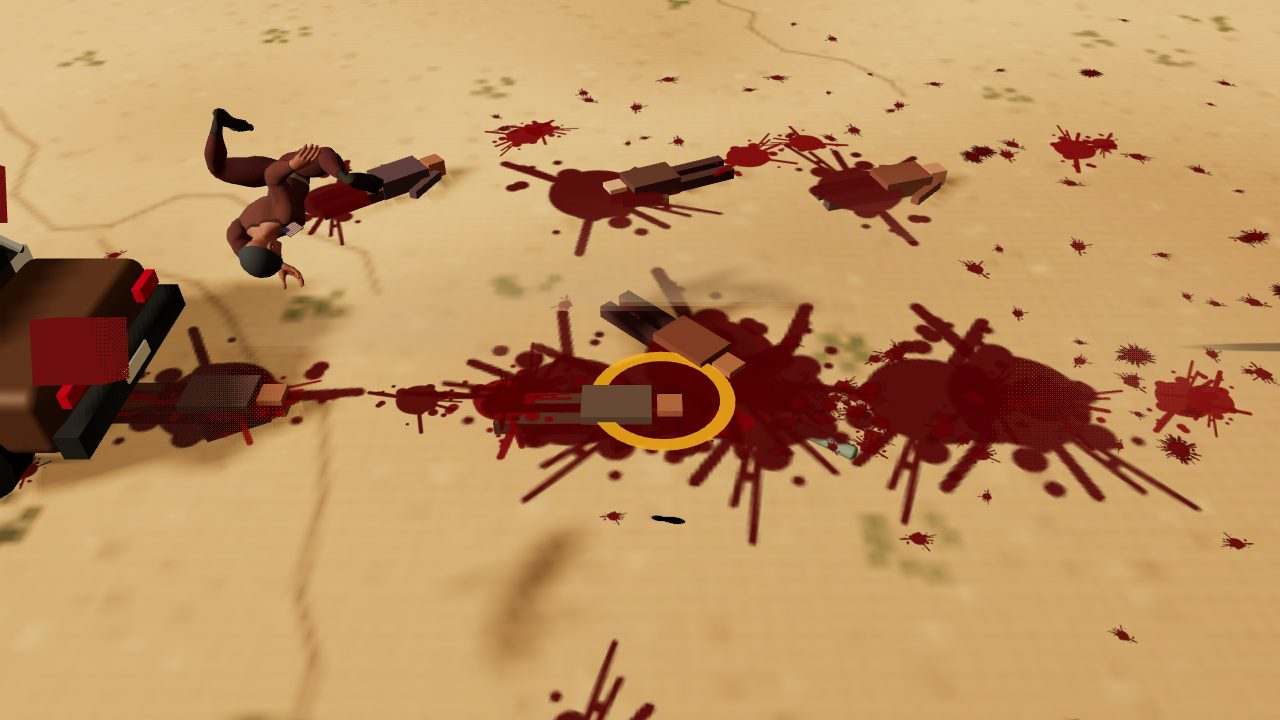
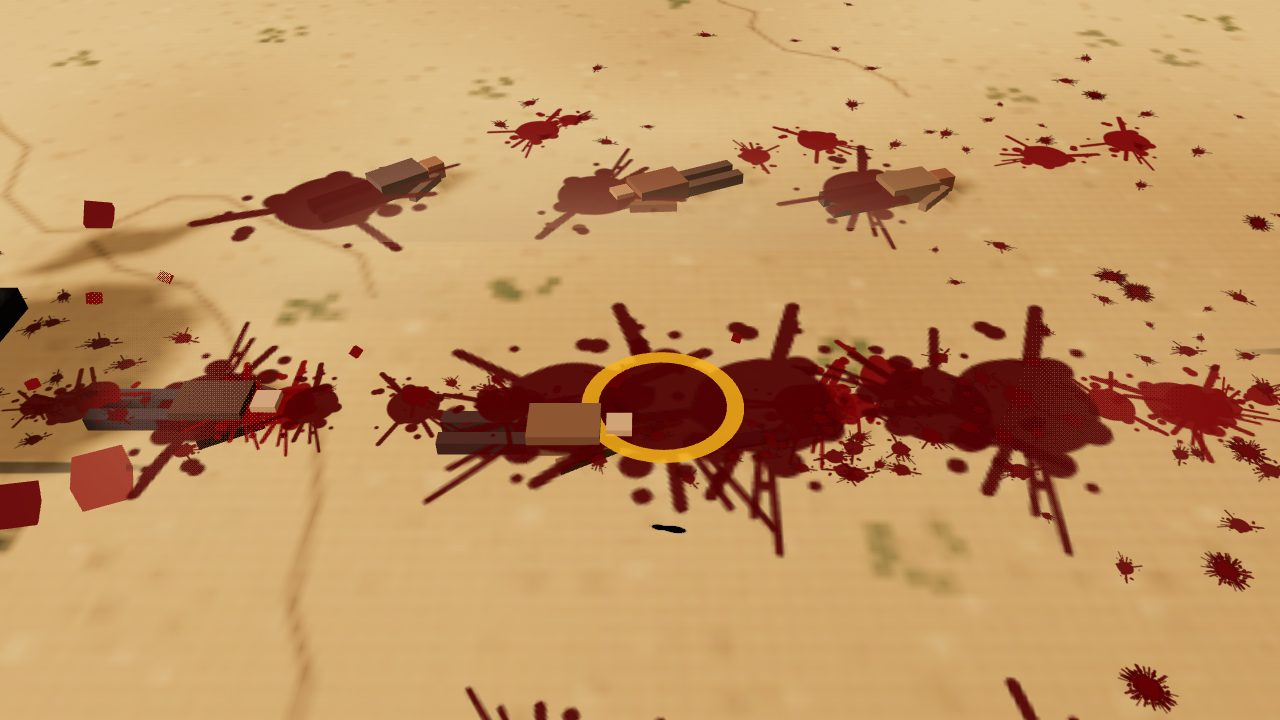
fix(web): deaths on the faceted LSW bodies; segment probes keep a body on the stair treads, not through them; renders re-shot

diff --git a/web/src/systems/deaths.js b/web/src/systems/deaths.js
@@ -22,6 +22,10 @@ const LINKS = [
   [0, 2, THIGH], [1, 3, THIGH], [2, 4, SHIN], [3, 5, SHIN], [6, 8, UPPER], [7, 9, UPPER], [8, 10, FORE], [9, 11, FORE],
   [0, 4, 0.35, 'min'], [1, 5, 0.35, 'min'], [6, 10, 0.2, 'min'], [7, 11, 0.2, 'min'], // a knee or an elbow never folds flat
 ];
+// Segment probes: a body lies across stair treads and kerbs between its points; these links are sampled along their
+// length (at `at` of the way), and a sample under what is beneath it lifts both ends (radius r: the limb's half-thickness).
+const PROBES = [[0, 6, 0.12], [1, 7, 0.12], [0, 7, 0.12], [1, 6, 0.12], [0, 2, 0.08], [1, 3, 0.08], [2, 4, 0.06], [3, 5, 0.06], [6, 8, 0.06], [7, 9, 0.06]];
+const PROBE_AT = [0.25, 0.5, 0.75];
 const RAD = new Float32Array(NP).fill(RG.radius); for (const i of [0, 1, 6, 7]) RAD[i] = RG.radiusTorso;
 const LIMB_PTS = { armL: [6, 10, 8], armR: [7, 11, 9], legL: [0, 4, 2], legR: [1, 5, 3] }; // root, end, middle
 const smooth = (x) => x * x * (3 - 2 * x);
@@ -234,6 +238,7 @@ export class Deaths {
       if (wy < f) wy = f;
       out[i * 3] = wx; out[i * 3 + 1] = wy; out[i * 3 + 2] = wz;
     }
+    this.lift(out, null);
     return out;
   }
   // The clip hands over to the ragdoll: the points carry the clip's own speed plus the row's kick.
@@ -358,6 +363,7 @@ export class Deaths {
       }
       this.collide(R, it === RG.iters - 1);
     }
+    this.lift(P, Q);
     for (let j = 0; j < N3; j++) { const v = Math.abs(P[j] - Q[j]); if (v > vmax) vmax = v; }
     // still: slow relative to what it lies on (a body riding a moving bed is still on the bed)
     const rel = R.onSurf ? Math.max(0, vmax - Math.hypot(R.svx, R.svz) * h) : vmax;
@@ -387,6 +393,21 @@ export class Deaths {
       }
     }
   }
+  // Lift every probed segment clear of what is under it (a stair's nosing, a kerb): both ends go up by the deficit.
+  // Q (when given) goes up with P, so a lift is not a launch.
+  lift(P, Q) {
+    for (const [a0, b0, r] of PROBES) {
+      const a = a0 * 3, b = b0 * 3;
+      let need = 0;
+      for (const u of PROBE_AT) {
+        const x = P[a] + (P[b] - P[a]) * u, y = P[a + 1] + (P[b + 1] - P[a + 1]) * u, z = P[a + 2] + (P[b + 2] - P[a + 2]) * u;
+        const d = this.surface(x, z, y + 0.3) + r - y;
+        if (d > need) need = d;
+      }
+      if (need > 0) { P[a + 1] += need; P[b + 1] += need; if (Q) { Q[a + 1] += need; Q[b + 1] += need; } }
+    }
+  }
+
   // After each update: the body's spot (c.x/z the pelvis), in the air or not (blood.js smears only on the ground), the car.
   track(c, R) {
     const P = R.P, px = (P[0] + P[3]) / 2, py = (P[1] + P[4]) / 2, pz = (P[2] + P[5]) / 2;
@@ -492,12 +513,18 @@ export class Deaths {
       const y = P[i * 3 + 1]; lo = Math.min(lo, y); hi = Math.max(hi, y);
       const f = this.surface(P[i * 3], P[i * 3 + 2], y + 0.3) + RAD[i]; gap = Math.min(gap, y - f); hang = Math.max(hang, y - f);
     }
+    // cut: how far any probed segment dips under what is beneath it (a torso through a stair's nosing)
+    let cut = 0;
+    for (const [a0, b0, r] of PROBES) for (const u of PROBE_AT) {
+      const a = a0 * 3, b = b0 * 3, x = P[a] + (P[b] - P[a]) * u, y = P[a + 1] + (P[b + 1] - P[a + 1]) * u, z = P[a + 2] + (P[b + 2] - P[a + 2]) * u;
+      cut = Math.max(cut, this.surface(x, z, y + 0.3) + r * 0.5 - y);
+    }
     let stretch = 0;
     for (const L of LINKS) { if (L[3]) continue; const a = L[0] * 3, b = L[1] * 3; stretch = Math.max(stretch, Math.abs(Math.hypot(P[b] - P[a], P[b + 1] - P[a + 1], P[b + 2] - P[a + 2]) - L[2]) / L[2]); }
     return {
       id: c.id, clip: R.id, part: R.part, cause: R.cause, phase: R.phase, t: r2(R.t), age: r2(R.age), air: R.air, airT: r2(R.airT ?? 0),
       onVehicle: R.on?.id ?? null, carSp: R.carSp !== undefined ? r2(R.carSp) : null, x: r2(c.x), z: r2(c.z), lowY: r2(lo), highY: r2(hi), maxLift: r2(R.maxY),
-      restGap: r2(gap), hang: r2(hang), stretch: r2(stretch), lost: c.lost ?? 0, moved: r2(Math.hypot(c.x - R.x0, c.z - R.z0)),
+      restGap: r2(gap), hang: r2(hang), cut: r2(cut), stretch: r2(stretch), lost: c.lost ?? 0, moved: r2(Math.hypot(c.x - R.x0, c.z - R.z0)),
       cross: R.cross ? { a0: r2(R.cross.a0), aMin: r2(R.cross.aMin), overTop: R.cross.overTop, len: R.cross.len } : null,
     };
   }

diff --git a/web/src/agent/deaths-api.js b/web/src/agent/deaths-api.js
@@ -111,10 +111,10 @@ export async function deathsChecks({ g, api, C, check, stage, hush }) {
         const r = await C('death', { action: 'play', type, x: at.x, z: at.z });
         const c = api.findChar(r.id); made.push(c);
         const v = await settle(c, 10);
-        out[type] = v ? { clip: v.clip, phase: v.phase, gap: v.restGap, hang: v.hang, stretch: v.stretch, low: v.lowY, on: v.onVehicle } : null;
+        out[type] = v ? { clip: v.clip, cut: v.cut, phase: v.phase, gap: v.restGap, hang: v.hang, stretch: v.stretch, low: v.lowY, on: v.onVehicle } : null;
         if (r.vehicle) { const car = api.findVeh(r.vehicle); if (car) g.vehiclesSys.remove(car); }
       }
-      const bad = Object.entries(out).filter(([k, v]) => !v || v.clip !== k || v.phase !== 'still' || v.gap > 0.15 || v.stretch > 0.15);
+      const bad = Object.entries(out).filter(([k, v]) => !v || v.clip !== k || v.cut > 0.03 || v.phase !== 'still' || v.gap > 0.15 || v.stretch > 0.15);
       return bad.length ? JSON.stringify(out) : true;
     } finally { gone(...made); g.godMode = false; }
   }));
@@ -167,7 +167,7 @@ export async function deathsChecks({ g, api, C, check, stage, hush }) {
     } finally { if (P().inVehicle) g.exitVehicle(true); g.vehiclesSys.remove(v); gone(c); g.godMode = false; }
   }));
 
-  await check('deaths: a body dying on a flight of stairs settles ON the stairs - every point rests on its own step (no float, none under the treads), the body spread over more than one step', async () => hush(async () => {
+  await check('deaths: a body dying on a flight of stairs settles ON the stairs - every point rests on its own step, no limb or torso cuts through a tread (segments probed along their length), the body spread over more than one step', async () => hush(async () => {
     await stage();
     await C('teleport', { x: 0, z: -40 });
     const S = g.storeys.list.find((s) => s.flights[0] && s.flights[0].len > 2.5);
@@ -182,7 +182,7 @@ export async function deathsChecks({ g, api, C, check, stage, hush }) {
       const v = await settle(c, 9);
       const ys = []; for (let i = 0; i < 12; i++) ys.push(c.rag.P[i * 3 + 1]);
       const spread = Math.max(...ys) - Math.min(...ys);
-      return v.phase === 'still' && v.restGap < 0.15 && v.hang < 0.6 && mid > 0.4 && spread > 0.25 && v.lowY > 0.1 ? true : JSON.stringify({ v, mid: r1(mid), spread: r1(spread), f: { from: f.from, to: f.to, len: f.len } });
+      return v.phase === 'still' && v.restGap < 0.15 && v.hang < 0.6 && v.cut < 0.03 && mid > 0.4 && spread > 0.25 && v.lowY > 0.1 ? true : JSON.stringify({ v, mid: r1(mid), spread: r1(spread), f: { from: f.from, to: f.to, len: f.len } });
     } finally { gone(c); }
   }));
 

diff --git a/web/src/systems/characters.js b/web/src/systems/characters.js
@@ -772,7 +772,7 @@ export class CharacterRenderer {
     else {
       M.head.setMatrixAt(i, headFrame); M.face.setMatrixAt(i, headFrame);
       const hat = c.hatStyle ?? 'short';
-      if (hat !== 'bald' && M[`hat_${hat}`]) this.put(`hat_${hat}`, headFrame, 0, 0, 0, 0, HAIR_STYLES.has(hat) ? c.hair : c.hat ?? c.hair);
+      if (hat !== 'bald' && M[`hat_${hat}`] && !(near && !ch.lost && L.ownsHair(ch))) this.put(`hat_${hat}`, headFrame, 0, 0, 0, 0, HAIR_STYLES.has(hat) ? c.hair : c.hat ?? c.hair);
       const acc = c.accStyle ?? 'none';
       if (acc !== 'none' && M[`acc_${acc}`]) this.put(`acc_${acc}`, headFrame, 0, 0, 0, 0, acc === 'mask' ? c.mask ?? '#6a2a1e' : '#2a2622');
       if (c.scar && M[`scar_${c.scar}`]) this.put(`scar_${c.scar}`, headFrame, 0, 0, 0, 0, c.scarColor ?? '#d9a58a');

diff --git a/docs/design/WEB_DEATHS.md b/docs/design/WEB_DEATHS.md
@@ -120,6 +120,8 @@ does five things.
 - **The cap:** at most `maxActive` (16) ragdolls step at once. A 17th freezes the oldest live one where it is.
 - **Moved by someone:** a body dragged, harpooned or teleported takes all its points with it. While `c.dragged` the
   ragdoll does not step.
+- **Segment probes:** the torso's sides and diagonals, the thighs, shins and upper arms are sampled at a quarter, a half and three quarters of their length. A sample under what is beneath it lifts both ends (and their previous positions, so a lift is not a launch), so a body across stair treads or a kerb rests on the nosings instead of cutting through them. `death action=view` reports `cut`: the worst dip, under 0.03 m on the stairs check.
+- **The bodies** are LSW's faceted kit (feat/web-lsw-faceted, merged here): `ragPose` hands its frames to the kit's `drive()` and keeps its own-hair rule.
 - **Death rites** keeps working on the same Character: the rot colours come through `paint()`, then the bone pile. The
   frozen pose is what rots.
 
